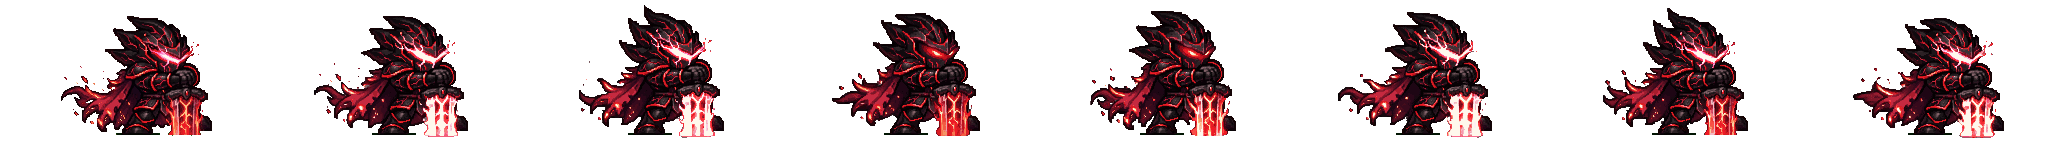
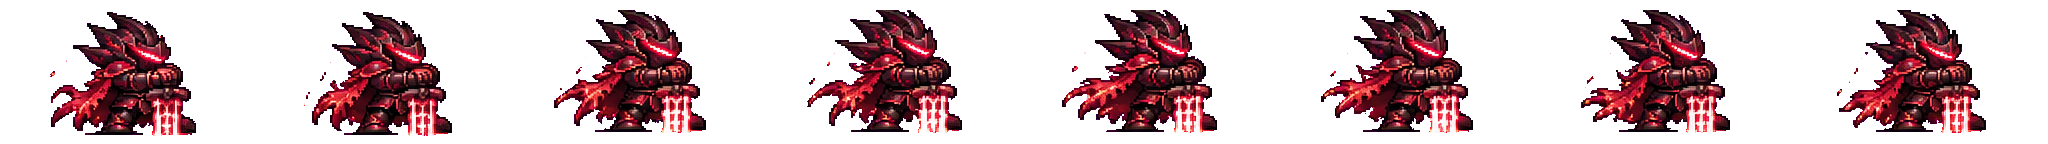
녹스 각성 = GPT 시트 정리본
Claude-Session: https://claude.ai/code/session_014JJv1inugJhWZw13z11Fyi

diff --git a/docs/handoff/assets/hero-awaken/proc.py b/docs/handoff/assets/hero-awaken/proc.py
@@ -1,0 +1,45 @@
+import json,sys
+import numpy as np
+from PIL import Image
+k=sys.argv[1]; gpt=sys.argv[2]
+L=json.load(open(f'/home/user/hv2/docs/handoff/assets/hero-awaken/gpt-layout-{k}.json'))
+S=Image.open(f'/home/user/beta/public/art/heroes/hero-{k}-v5.webp').convert('RGBA')
+HD=json.load(open('/home/user/beta/src/ui/idle8-hd-map.json')) if False else None
+G=Image.open(gpt).convert('RGB'); W,H=G.size; cw,ch=W/6,H/7
+def key(im):
+  a=np.array(im).astype(int); r,g,b=a[...,0],a[...,1],a[...,2]
+  mag=(r>150)&(b>150)&(g<110)&(abs(r-b)<90)
+  # despill: pixels near magenta edge
+  alpha=np.where(mag,0,255).astype('uint8')
+  out=np.dstack([a.clip(0,255).astype('uint8'),alpha])
+  o=Image.fromarray(out,'RGBA')
+  # remove tiny specks: keep alpha
+  return o
+def cellimg(i):
+  c,r=i%6,i//6; x0,y0=round(c*cw),round(r*ch)
+  return key(G.crop((x0,y0,x0+256,y0+min(144,round(ch))+4)))
+def best_shift(new,ref):
+  na=np.array(new.getchannel('A'))>0; ra=np.array(ref.getchannel('A'))>0
+  if not ra.any() or not na.any(): return 0,0
+  best=(-1,0,0)
+  for dy in range(-10,11):
+    for dx in range(-14,15):
+      sh=np.zeros_like(ra); 
+      ys=slice(max(0,dy),min(ra.shape[0],na.shape[0]+dy)); xs=slice(max(0,dx),min(ra.shape[1],na.shape[1]+dx))
+      sh[ys,xs]=na[ys.start-dy:ys.stop-dy, xs.start-dx:xs.stop-dx]
+      sc=(sh&ra).sum()/max(1,(sh|ra).sum())
+      if sc>best[0]: best=(sc,dx,dy)
+  return best[1],best[2]
+def place(new,ref):
+  dx,dy=best_shift(new,ref); o=Image.new('RGBA',(256,144)); o.alpha_composite(new,(dx,dy)) if dx>=0 and dy>=0 else o.paste(new,(dx,dy),new); return o
+sheet=Image.new('RGBA',S.size); breath=Image.new('RGBA',(2048,144))
+B=Image.open(f'/home/user/hv2/docs/handoff/assets/hero-idle8-hd/'+sys.argv[3]).convert('RGBA')
+for sl in L['slots']:
+  new=cellimg(sl['slot'])
+  if 'src' in sl:
+    r,c=sl['src']; ref=S.crop((256*c,144*r,256*c+256,144*r+144))
+    sheet.alpha_composite(place(new,ref),(256*c,144*r))
+  else:
+    j=sl['breath']; ref=B.crop((256*j,0,256*j+256,144))
+    breath.alpha_composite(place(new,ref),(256*j,0))
+sheet.save(f'{k}-gpt-v5.png'); breath.save(f'{k}-gpt-idle8.png')

diff --git a/docs/handoff/assets/hero-awaken/despill.py b/docs/handoff/assets/hero-awaken/despill.py
@@ -1,0 +1,18 @@
+import sys, numpy as np
+from PIL import Image
+for f in sys.argv[1:]:
+  a=np.array(Image.open(f).convert('RGBA')).astype(int)
+  for _ in range(2):
+    op=a[...,3]>0
+    r,g,b=a[...,0],a[...,1],a[...,2]
+    tint=op&(b>90)&(r>90)&(g<b-35)&(abs(r-b)<110)
+    # only remove if touching transparency
+    t=~op; nb=np.zeros_like(op)
+    nb[1:]|=t[:-1]; nb[:-1]|=t[1:]; nb[:,1:]|=t[:,:-1]; nb[:,:-1]|=t[:,1:]
+    a[tint&nb,3]=0
+  # remaining interior tint -> pull blue down
+  op=a[...,3]>0; r,g,b=a[...,0],a[...,1],a[...,2]
+  tint=op&(b>90)&(r>90)&(g<b-35)
+  a[tint,2]=(a[tint,1]+a[tint,2])//3
+  Image.fromarray(a.clip(0,255).astype('uint8'),'RGBA').save(f)
+  print(f,'left tint',int(tint.sum()))

diff --git a/docs/handoff/assets/hero-awaken/README.md b/docs/handoff/assets/hero-awaken/README.md
@@ -2,3 +2,4 @@
 - ② 세밀화 숨쉬기: hero-<k>-awk-idle8-v1.webp (2048 × 144 · 8칸 · 발 줄 136 = 원래와 같음) = PixelLab edit-images-v2(첫 칸 고치기) + animate-with-text-v3(8칸) · 1명 약 7회.
 - ① 전투 시트: hero-<k>-awk-v5.webp (1024 × 1728 = v5 와 같은 칸) = recolor.py 로 색만 바꿈 + 각성 색 테두리 빛 · 0회.
 - ⚠ 발도르: 세밀화는 금빛 투구(머리 가림)인데 전투 시트는 맨머리(보라 머리 유지) → 선생님 판단.
+- 녹스 = GPT 판으로 바꿈(11/20): hero-dknight-awk-v5.webp(전투 31칸) · hero-dknight-awk-idle8-v1.webp(숨쉬기 8칸) = proc.py(칸 자르기 · 마젠타 지우기 · 원래 칸과 겹침 최대로 자리 맞춤) + despill.py(마젠타 테두리 정리). PixelLab 0회.
